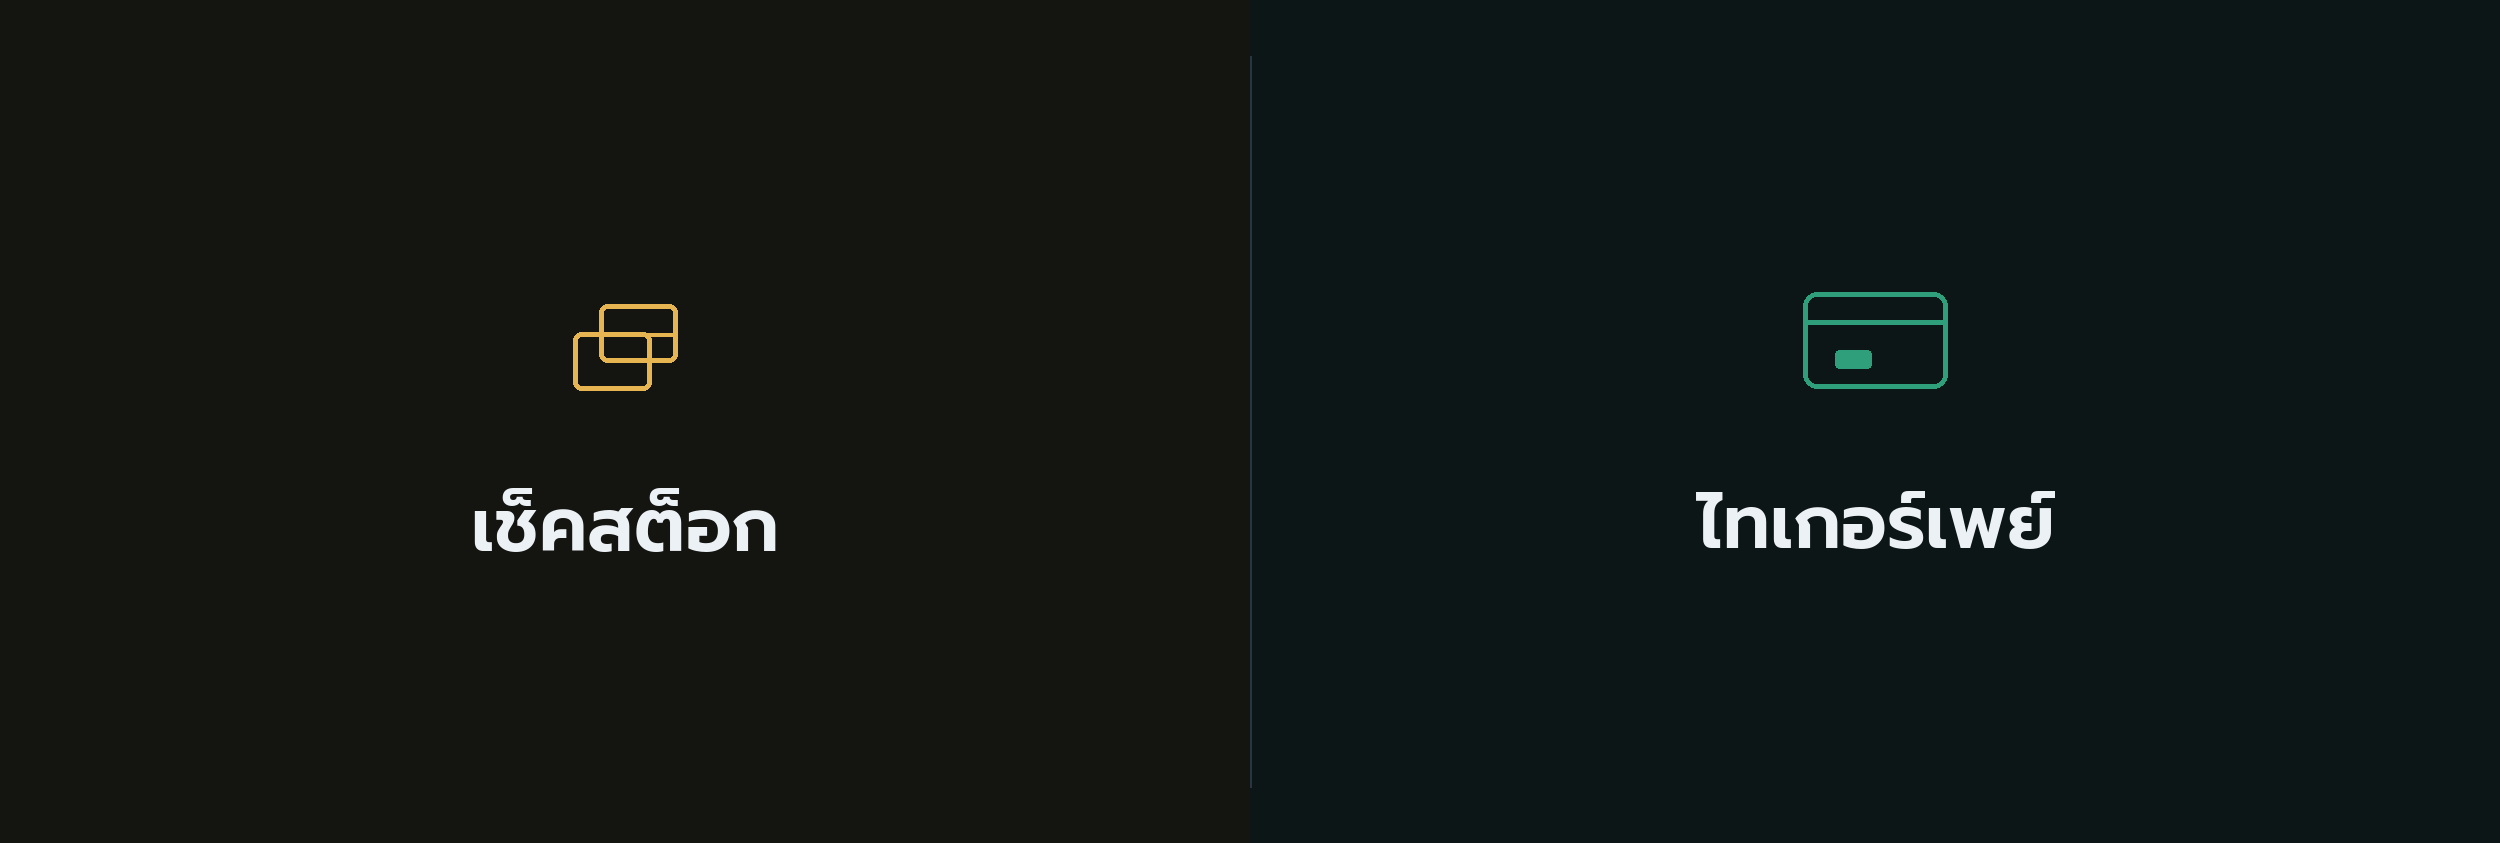
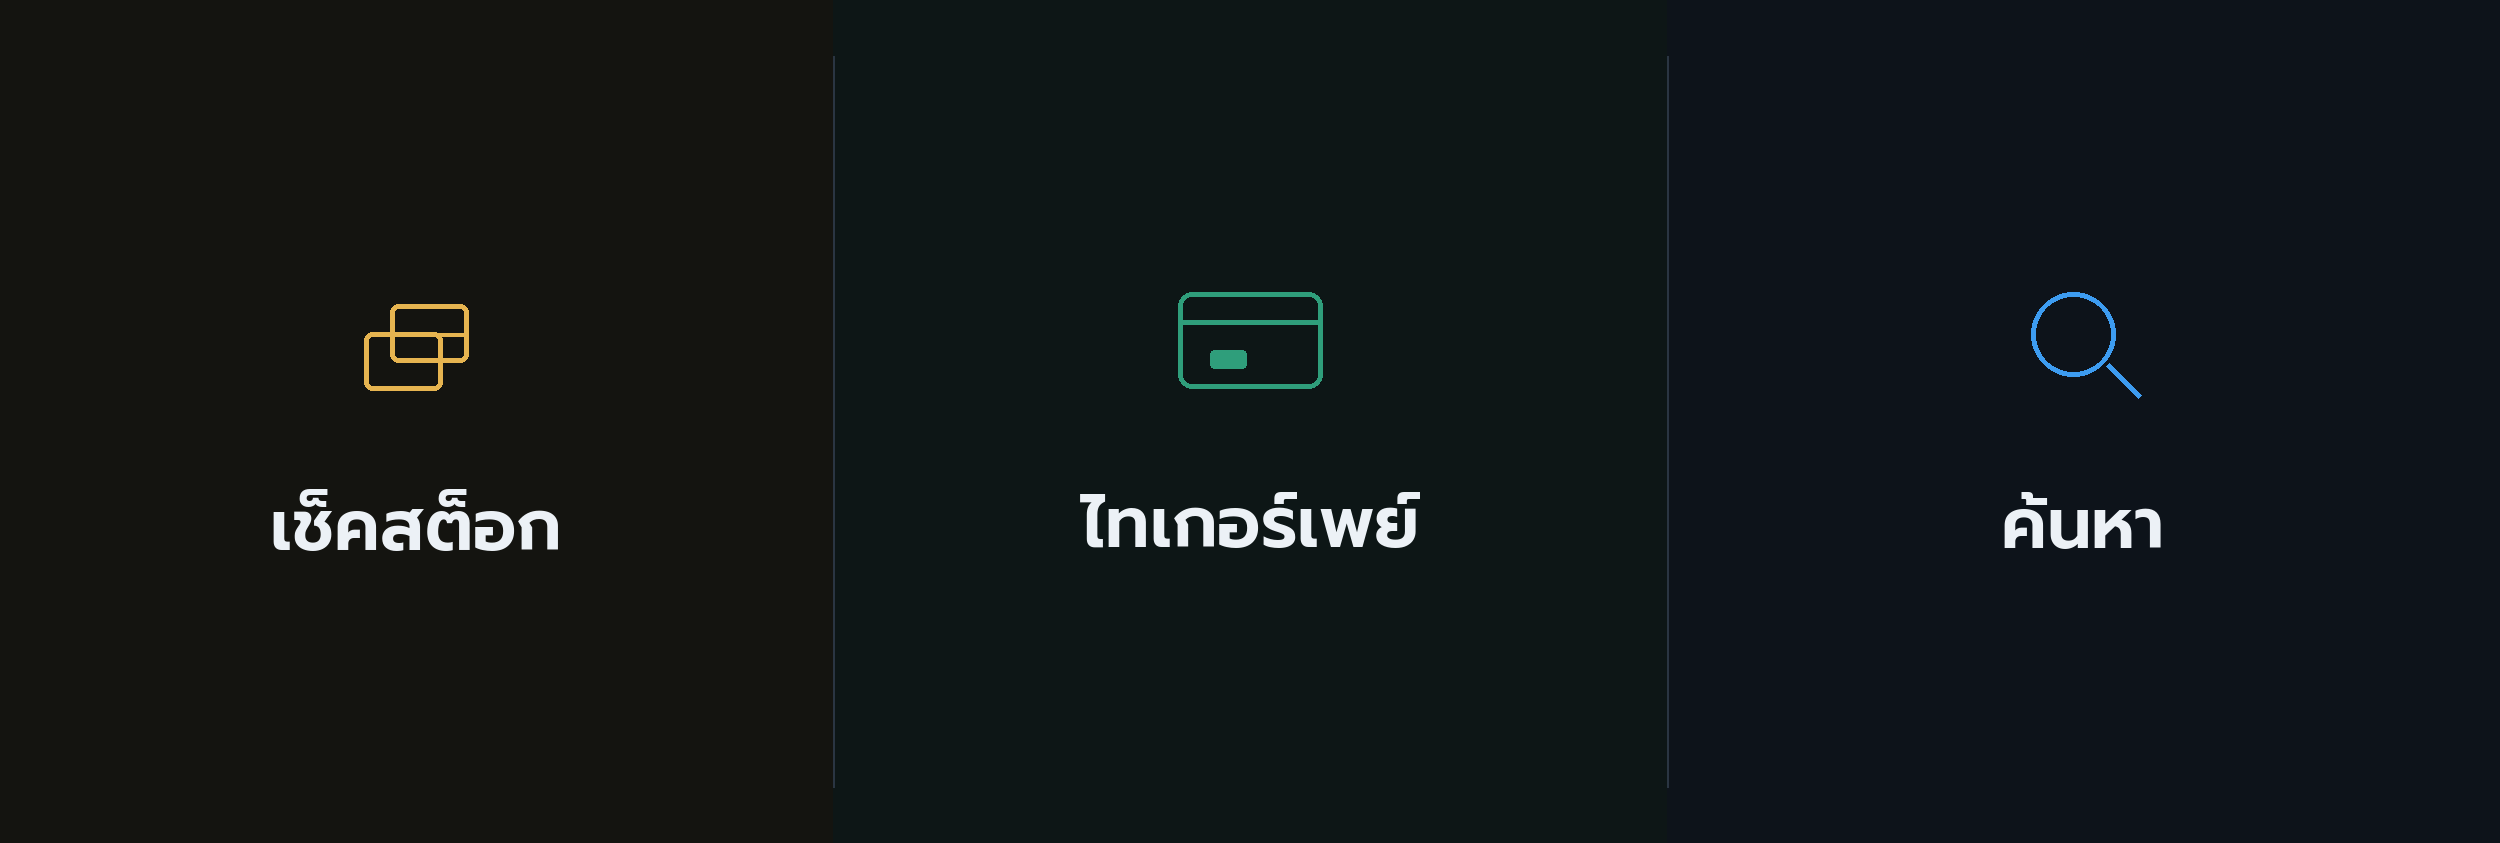
Add ค้นหา tile back to the LINE rich menu.
Three equal columns again: เช็คสต็อก, ไทเกอร์เพย์, and ค้นหา (PARTS9
explorer). Align the explorer Flex reply title with the same wording.

diff --git a/scripts/line_rich_menu/generate_image.py b/scripts/line_rich_menu/generate_image.py
@@ -1,8 +1,8 @@
 #!/usr/bin/env python3
-"""Generate a simple/minimal KCW LINE rich-menu PNG (2500x843, half-height, 2 taps).
+"""Generate a simple/minimal KCW LINE rich-menu PNG (2500x843, half-height, 3 taps).
 
-Visual language mirrors the v2 shop tools (companion + stock-check):
-dark canvas, Prompt type, one icon + one label per column — no cards/header clutter.
+Visual language mirrors the v2 shop tools: dark canvas, Prompt type,
+one icon + one label per column — no cards/header clutter.
 """
 
 from __future__ import annotations
@@ -17,17 +17,18 @@ FONTS = ROOT / "fonts"
 
 W, H = 2500, 843
 
-# Match parts9 explorer / companion dark theme
 BG = (12, 16, 20)  # #0c1014
 LINE = (42, 53, 66)  # #2a3542
 TEXT = (236, 241, 246)
 
-STOCK = (230, 180, 80)  # explorer --warn
-PAY = (47, 158, 123)  # companion --accent #2f9e7b
+STOCK = (230, 180, 80)
+PAY = (47, 158, 123)
+SEARCH = (61, 156, 240)  # explorer --acc #3d9cf0
 
 CELLS = [
     {"title": "เช็คสต็อก", "accent": STOCK, "icon": "boxes", "tint": (28, 24, 14)},
     {"title": "ไทเกอร์เพย์", "accent": PAY, "icon": "pay", "tint": (14, 28, 24)},
+    {"title": "ค้นหา", "accent": SEARCH, "icon": "search", "tint": (14, 22, 32)},
 ]
 
 
@@ -63,8 +64,7 @@ def _center_text(
 
 
 def _draw_boxes_icon(draw: ImageDraw.ImageDraw, cx: int, cy: int, color: tuple[int, int, int]) -> None:
-    w, h = 78, 58
-    draw.rounded_rectangle([cx - 52, cy - 8, cx + 26, cy + h - 8], radius=8, outline=color, width=5)
+    draw.rounded_rectangle([cx - 52, cy - 8, cx + 26, cy + 50], radius=8, outline=color, width=5)
     draw.rounded_rectangle([cx - 26, cy - 36, cx + 52, cy + 22], radius=8, outline=color, width=5)
     draw.line([(cx - 26, cy - 6), (cx + 52, cy - 6)], fill=color, width=4)
 
@@ -75,12 +75,18 @@ def _draw_pay_icon(draw: ImageDraw.ImageDraw, cx: int, cy: int, color: tuple[int
     draw.rounded_rectangle([cx - 40, cy + 10, cx - 4, cy + 28], radius=4, fill=color)
 
 
+def _draw_search_icon(draw: ImageDraw.ImageDraw, cx: int, cy: int, color: tuple[int, int, int]) -> None:
+    r = 42
+    draw.ellipse([cx - r - 10, cy - r - 6, cx + r - 10, cy + r - 6], outline=color, width=5)
+    draw.line([(cx + 24, cy + 24), (cx + 56, cy + 56)], fill=color, width=6)
+
+
 def generate() -> Path:
     img = Image.new("RGB", (W, H), BG)
     draw = ImageDraw.Draw(img)
 
-    widths = [1250, 1250]
-    title_font = _font("Prompt-SemiBold.ttf", 74)
+    widths = [833, 834, 833]
+    title_font = _font("Prompt-SemiBold.ttf", 70)
     x = 0
 
     for i, (cell, cw) in enumerate(zip(CELLS, widths)):
@@ -96,8 +102,10 @@ def generate() -> Path:
 
         if cell["icon"] == "boxes":
             _draw_boxes_icon(draw, cx, icon_y, cell["accent"])
-        else:
+        elif cell["icon"] == "pay":
             _draw_pay_icon(draw, cx, icon_y, cell["accent"])
+        else:
+            _draw_search_icon(draw, cx, icon_y, cell["accent"])
 
         _center_text(draw, (cx, title_y), cell["title"], title_font, TEXT)
         x += cw

diff --git a/tests/test_line_rich_menu.py b/tests/test_line_rich_menu.py
@@ -6,6 +6,7 @@ import json
 from pathlib import Path
 
 from src.handlers.companion_entry import is_companion_command
+from src.handlers.explorer_entry import is_explorer_command
 from src.handlers.stock_check_entry import is_stock_check_command
 
 SPEC = Path(__file__).resolve().parents[1] / "scripts" / "line_rich_menu" / "menu_spec.json"
@@ -14,12 +15,13 @@ SPEC = Path(__file__).resolve().parents[1] / "scripts" / "line_rich_menu" / "men
 def test_rich_menu_message_actions_match_handlers():
     spec = json.loads(SPEC.read_text(encoding="utf-8"))
     areas = spec["areas"]
-    assert len(areas) == 2
+    assert len(areas) == 3
 
     texts = [a["action"]["text"] for a in areas]
-    assert texts == ["เช็คสต็อก", "ไทเกอร์"]
+    assert texts == ["เช็คสต็อก", "ไทเกอร์", "ค้นหา"]
     assert is_stock_check_command(texts[0])
     assert is_companion_command(texts[1])
+    assert is_explorer_command(texts[2])
 
 
 def test_rich_menu_geometry_is_line_half_size():

diff --git a/src/handlers/explorer_entry.py b/src/handlers/explorer_entry.py
@@ -55,8 +55,8 @@ def handle_explorer_command(engine, *, line_user_id: str, display_name: str | No
     if not links:
         return {"type": "text", "text": "ยังไม่พบเซิร์ฟเวอร์ PARTS9 explorer ออนไลน์ครับ (รอ heartbeat)"}
     return branch_uri_buttons(
-        title="สำรวจสินค้า",
-        alt_text="สำรวจสินค้า — กดเลือกสาขา",
+        title="ค้นหา",
+        alt_text="ค้นหา — กดเลือกสาขา",
         links=links,
-        wifi_hint="กดปุ่มสาขา — ต้องอยู่ Wi‑Fi สาขา (หรือ Tailscale)",
+        wifi_hint="กดชื่อสาขาเพื่อเปิด — ต้องอยู่ Wi‑Fi สาขา (หรือ Tailscale)",
     )
